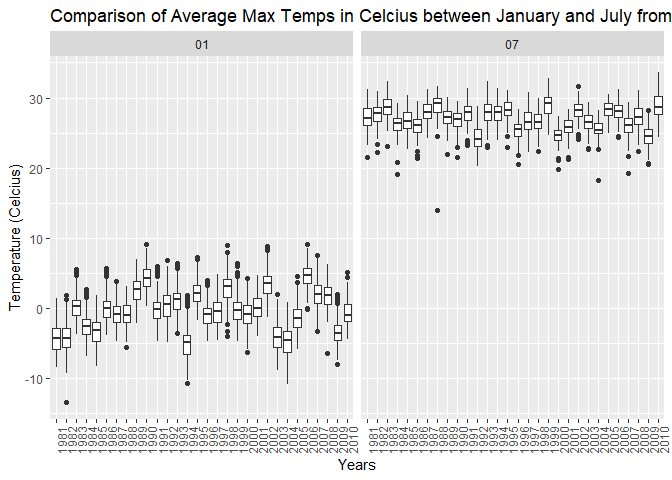
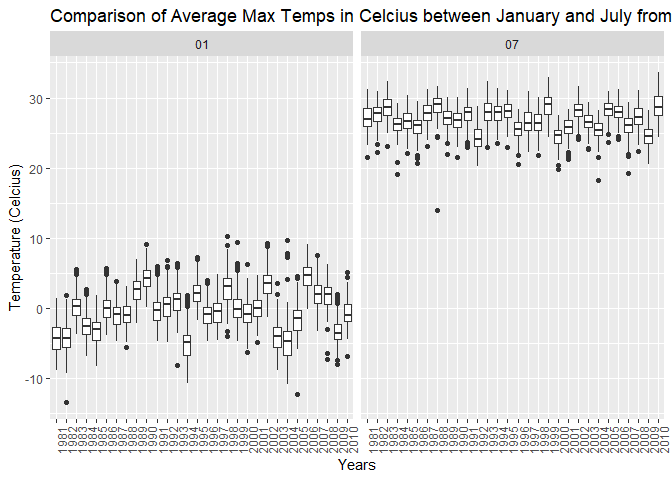
box plot 1, window dressing needed

diff --git a/p8105_hw3.md b/p8105_hw3.md
@@ -239,12 +239,22 @@ maxtempJanJul_plot =
   nynoaa_cleaned %>%
   select(year, month, id, tmin, tmax) %>%
   filter(month == "01" | month == "07") %>%
+  na.omit() %>%
   group_by(year, month, id) %>%
   summarize(tmax_mean = mean(tmax)) %>%
   ggplot(aes(x = year, y = tmax_mean)) + geom_boxplot() + facet_grid(.~month) + theme(axis.text.x = element_text(size = 9, angle = 90)) + labs(title = "Comparison of Average Max Temps in Celcius between January and July from 1981 to 2010", x = "Years", y = "Temperature (Celcius)" )
 maxtempJanJul_plot
 ```
 
-    ## Warning: Removed 7058 rows containing non-finite values (stat_boxplot).
-
 ![](p8105_hw3_files/figure-markdown_github/unnamed-chunk-5-1.png)
+
+``` r
+plot1_minmax =
+  nynoaa_cleaned %>%
+  select(tmin, tmax) %>%
+  na.omit() %>%
+  ggplot(aes(x = tmin, y = tmax )) + geom_hex()
+plot1_minmax
+```
+
+![](p8105_hw3_files/figure-markdown_github/unnamed-chunk-6-1.png)
